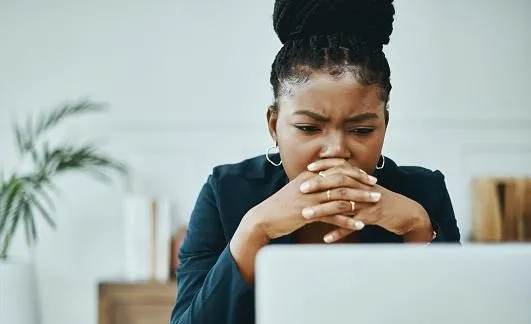
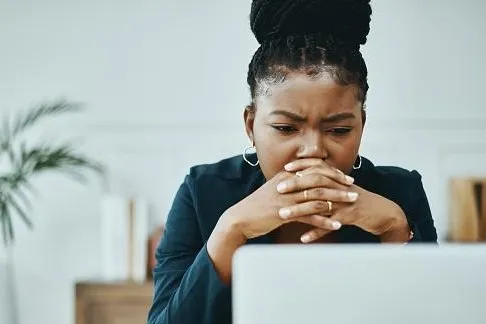
new blog - 3 reasons / updated photos

diff --git a/blog/3-reasons-a-malpractice-attorney-should-hire-a-legal-nurse-consultant.html b/blog/3-reasons-a-malpractice-attorney-should-hire-a-legal-nurse-consultant.html
@@ -1,0 +1,222 @@
+<!DOCTYPE html>
+<html lang="en">
+	<head>
+		<meta charset="UTF-8" />
+		<meta name="viewport" content="width=device-width, initial-scale=1.0" />
+
+		<!-- Primary Meta Tags -->
+		<title>Elevate Legal Nurse Consulting</title>
+		<meta
+			name="title"
+			content="3 Reasons a Malpractice Attorney Should Hire a Legal Nurse Consultant"
+		/>
+		<meta
+			name="description"
+			content="A Legal Nurse Consultant is an expert in the healthcare field. They are Registered Nurses who can translate the nuanced medical jargon into layman's terms."
+		/>
+
+		<!-- Open Graph / Facebook -->
+		<meta property="og:type" content="Elevate Legal Nurse Consultants" />
+		<meta
+			property="og:url"
+			content="https://elevatelnc.com/blog/3-reasons-why-a-malpractice-attorney-should-hire-a-legal-nurse-consultant.html"
+		/>
+		<meta
+			property="og:title"
+			content="3 Reasons a Malpractice Attorney Should Hire a Legal Nurse Consultant"
+		/>
+		<meta
+			property="og:description"
+			content="A Legal Nurse Consultant is an expert in the healthcare field. They are Registered Nurses who can translate the nuanced medical jargon into layman's terms."
+		/>
+		<!--! CHANGE URL IMAGE LINK BEFORE UPLOADING  -->
+		<meta
+			property="og:image"
+			content="https://www.elevatelnc.com/images/3-reasons.webp"
+		/>
+
+		<!-- Twitter -->
+		<meta property="twitter:card" content="summary_large_image" />
+		<meta
+			property="twitter:url"
+			content="https://elevatelnc.com/blog/3-reasons-why-a-malpractice-attorney-should-hire-a-legal-nurse-consultant.html"
+		/>
+		<meta
+			property="twitter:title"
+			content="3 Reasons a Malpractice Attorney Should Hire a Legal Nurse Consultant"
+		/>
+		<meta
+			property="twitter:description"
+			content="A Legal Nurse Consultant is an expert in the healthcare field. They are Registered Nurses who can translate the nuanced medical jargon into layman's terms."
+		/>
+		<meta
+			property="twitter:domain"
+			content="https://elevatelnc.com/blog/3-reasons-why-a-malpractice-attorney-should-hire-a-legal-nurse-consultant.html"
+		/>
+
+		<!--! CHANGE URL IMAGE LINK BEFORE UPLOADING  -->
+		<meta
+			property="twitter:image"
+			content="https://www.elevatelnc.com/images/3-reasons.jpg"
+		/>
+
+		<link
+			rel="stylesheet"
+			href="https://cdnjs.cloudflare.com/ajax/libs/font-awesome/6.1.1/css/all.min.css"
+			integrity="sha512-KfkfwYDsLkIlwQp6LFnl8zNdLGxu9YAA1QvwINks4PhcElQSvqcyVLLD9aMhXd13uQjoXtEKNosOWaZqXgel0g=="
+			crossorigin="anonymous"
+			referrerpolicy="no-referrer"
+		/>
+		<!-- <link rel="icon" href="data:," /> -->
+		<link
+			rel="icon"
+			type="image/png"
+			href="../images/briefcase-medical-solid.png"
+		/>
+		<link rel="stylesheet" href="../style.css" />
+	</head>
+	<body>
+		<nav class="nav">
+			<div class="nav-logo" alt="Logo">
+				<img src="../images/logo.png" alt="logo" />
+			</div>
+			<div class="nav-list">
+				<a href="../home.html">Home</a>
+				<a href="../services.html">Services</a>
+				<a href="../about-us.html">About Us</a>
+				<a href="../blogs.html">Blog</a>
+				<a href="../contact.html">Contact</a>
+			</div>
+			<div class="burger">
+				<div class="line top-line"></div>
+				<div class="line mid-line"></div>
+				<div class="line bottom-line"></div>
+			</div>
+		</nav>
+		<section id="blog-post">
+			<div class="container">
+				<div class="gray-blog"></div>
+				<div class="header">
+					<h1 class="blog-title zoom-in">
+						3 Reasons a Malpractice Attorney Should Hire A Legal Nurse
+						Consultant
+					</h1>
+				</div>
+
+				<div class="blog-body">
+					<div class="blog-post-box">
+						<img src="../images/3-reasons.webp" alt="doctor " />
+					</div>
+					<p>
+						<em
+							>Understanding the medical elements and nuances surrounding a
+							malpractice case is crucial for a malpractice attorney or team
+							member. A surefire way to ensure you and your team are prepared
+							and knowledgeable to succeed in the courtroom is with a Legal
+							Nurse Consultant supporting your efforts. The most successful
+							malpractice attorneys utilize the services of an LNC through the
+							lifecycle of their malpractice cases. Below are three reasons you
+							need to partner with an LNC on your next malpractice case.</em
+						>
+					</p>
+					<h2 class="blog-heading">Invaluable Expertise</h2>
+					<p>
+						A Legal Nurse Consultant is an expert in the healthcare field. They
+						are Registered Nurses who can translate the nuanced medical jargon
+						into layman's terms. The LNC can evaluate the integrity of medical
+						records and analyze the documents for validity, saving the attorney
+						and the team time and averting headaches. The Legal Nurse
+						Consultant's report can provide organized evidence and arguments to
+						speed document preparation and facilitate faster settlements.
+					</p>
+					<h2 class="blog-heading">Cost-Effective</h2>
+					<p>
+						The LNC can save a malpractice firm time and money through their
+						services. Merit reviews, EMR (medical record) analysis, and medical
+						chart evaluation are a few critical services any plaintiff or
+						defense attorney can benefit from. The Legal Nurse Consultant can
+						analyze and evaluate a medical record to determine completion and
+						validity, which is crucial during case preparation. The LNC can then
+						take the record, organize it, and translate it into a presentation
+						the attorney or legal professional can utilize.
+					</p>
+					<br />
+					<p>
+						Complicated cases may require research, a skill where the LNC is
+						efficient and effective. Save time droning through files and
+						research with an LNC. They can effectively navigate best practice
+						standards and evidence to collate case support.
+					</p>
+					<h2 class="blog-heading">Vital Resource</h2>
+					<p>
+						LNCs are well versed in knowing, understanding, and communicating
+						the standard of care. When partnering with a Legal Nurse Consultant,
+						they can walk through whether the case adheres to or upholds the
+						standard of care and again determine the validity of a case.
+					</p>
+					<br />
+					<p>
+						The Legal Nurse Consultant can help secure a medical expert for your
+						case. (Yes, you may need to invoke a healthcare professional other
+						than a doctor for your case, and the LNC can help determine the best
+						support for the case at hand. The LNC themself can also serve as
+						expert witnesses for your case. Nurses are experts at breaking down
+						complex topics into digestible understood concepts. The LNC would be
+						a great asset to the expert witness panel, especially if the jury
+						requires additional support in understanding complex topics to
+						render a decision.
+					</p>
+					<h2 class="blog-heading">Bonus – Merit Reviews</h2>
+					<p>
+						Okay, so merit reviews technically are not a bonus considering we
+						discussed this LNC service, but to harness the value of a Merit
+						Review performed by an LNC bears repeating. A thorough merit review
+						serves both plaintiffs and defense attorneys. The Legal Nurse
+						Consultant merit review is the gateway to determining if a case is
+						worth retaining and investing in.
+					</p>
+					<h2 class="blog-heading">Elevate Legal Nurse Consultants</h2>
+					<p>
+						At ELNC, we are Legal Nurse Consultants specializing in medical
+						record preparation, audit, merit review, medical research, and
+						billing summaries for both plaintiff and defense attorneys.
+					</p>
+					<br />
+					<p>
+						Elevate Legal Nurse Consulting provides medical expert witness
+						testimony and subject matter expert services. We can also research
+						and interview clinicians as subject matter experts or expert
+						witnesses to ensure you have the right healthcare expert to support
+						your case.
+					</p>
+					<br />
+					<p>
+						Interested in how Elevated Legal Nurse Consulting can help you and
+						your team? <a href="https://elevatelnc.com/contact">Connect</a> with
+						us today.
+					</p>
+				</div>
+			</div>
+		</section>
+
+		<footer>
+			<div class="socials">
+				<a
+					href="https://www.facebook.com/elevatelegalnurseconsulting"
+					target="_blank"
+					><i class="fa-brands fa-facebook"></i
+				></a>
+				<a
+					href="https://www.linkedin.com/company/40961542/admin/"
+					target="_blank"
+					><i class="fa-brands fa-linkedin"></i
+				></a>
+			</div>
+			<p>Copyright © 2019 Elevate Legal Nurse Consulting</p>
+		</footer>
+
+		<script src="https://cdnjs.cloudflare.com/ajax/libs/gsap/3.10.2/gsap.min.js"></script>
+		<script src="https://cdnjs.cloudflare.com/ajax/libs/gsap/3.10.2/ScrollTrigger.min.js"></script>
+		<script src="../script.js"></script>
+	</body>
+</html>

diff --git a/blogs.html b/blogs.html
@@ -94,6 +94,41 @@
 					<div class="blog-card">
 						<h3>
 							<a
+								href="./blog/3-reasons-a-malpractice-attorney-should-hire-a-legal-nurse-consultant.html"
+								>3 Reasons a Malpractice Attorney Should Hire A Legal Nurse
+								Consultant</a
+							>
+						</h3>
+						<div class="blog-img">
+							<img
+								src="./images/3-reasons.webp"
+								alt="doctor pointing at weighing scale"
+							/>
+						</div>
+						<p>
+							A Legal Nurse Consultant is an expert in the healthcare field.
+							They are Registered Nurses who can translate the nuanced medical
+							jargon into layman's terms. The LNC can evaluate the integrity of
+							medical records and analyze the documents for validity, saving the
+							attorney and the team time and averting headaches. The Legal Nurse
+							Consultant's report can provide organized evidence and arguments
+							to speed document preparation and facilitate faster settlements.
+						</p>
+						<div class="btn-container">
+							<button class="blog-btn zoom-in">
+								<a
+									href="./blog/3-reasons-a-malpractice-attorney-should-hire-a-legal-nurse-consultant.html"
+									>Read More</a
+								>
+							</button>
+						</div>
+					</div>
+				</div>
+
+				<div class="blog-container">
+					<div class="blog-card">
+						<h3>
+							<a
 								href="./blog/common-misconceptions-about-legal-nurse-consultants.html"
 								>Common Misconceptions about Legal Nurse Consultants</a
 							>
@@ -128,6 +163,7 @@
 						</div>
 					</div>
 				</div>
+
 				<div class="blog-container">
 					<div class="blog-card">
 						<h3>

diff --git a/blog/what-is-a-legal-nurse-consultant.html b/blog/what-is-a-legal-nurse-consultant.html
@@ -209,8 +209,11 @@
 					</p>
 					<br />
 					<p>
-						Check out our next post, as we dive into the Common Misconceptions
-						about Legal Nurse Consultants.
+						Check out our next post, as we dive into the
+						<a
+							href="https://elevatelnc.com/blog/common-misconceptions-about-legal-nurse-consultants"
+							>Common Misconceptions about Legal Nurse Consultants</a
+						>.
 					</p>
 				</div>
 			</div>
